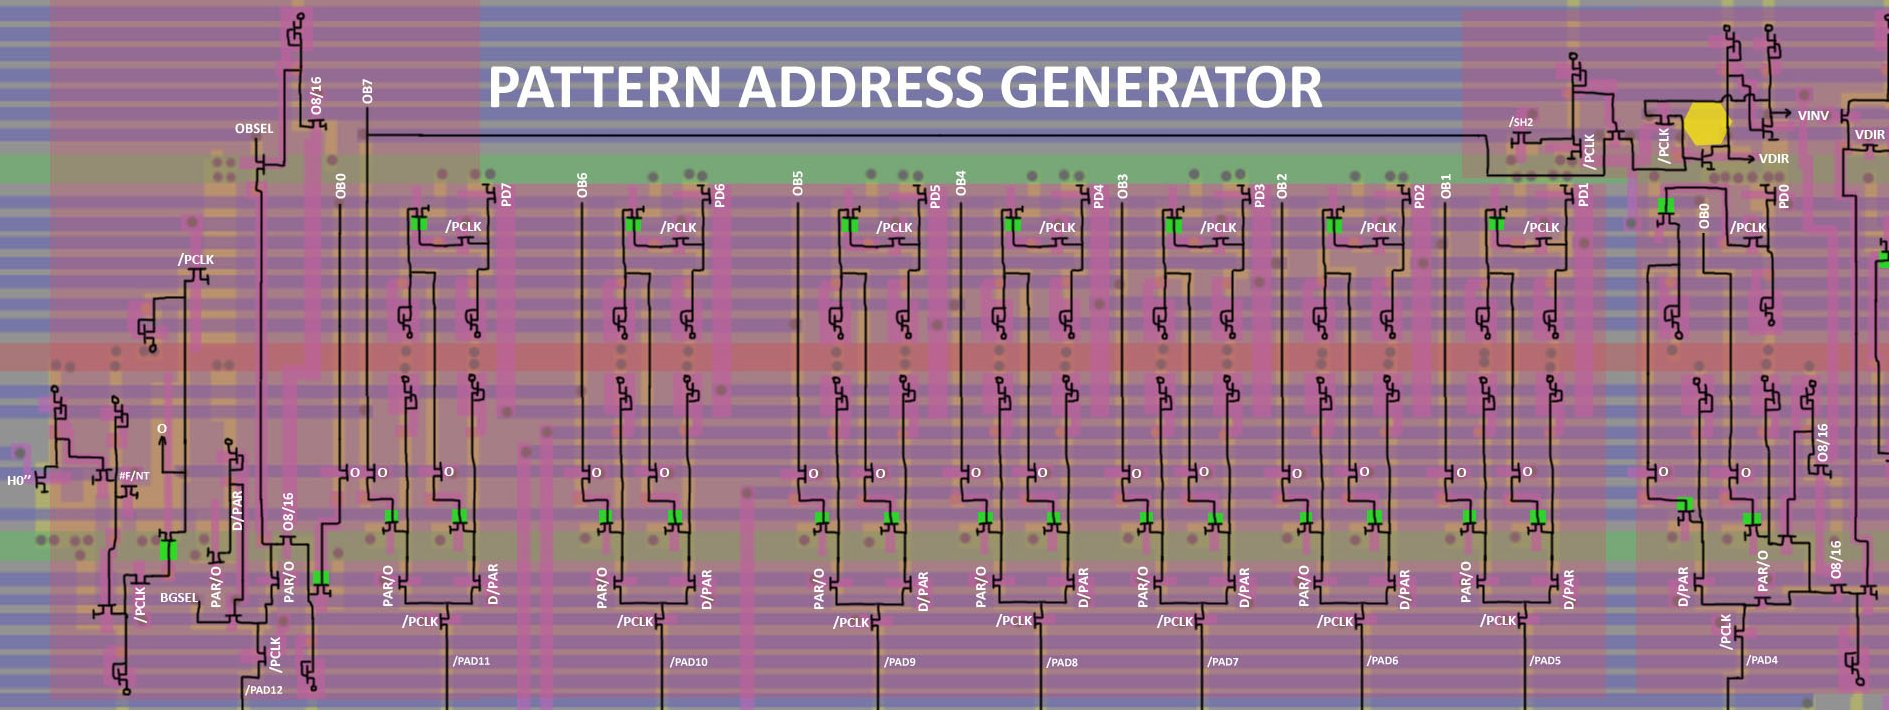
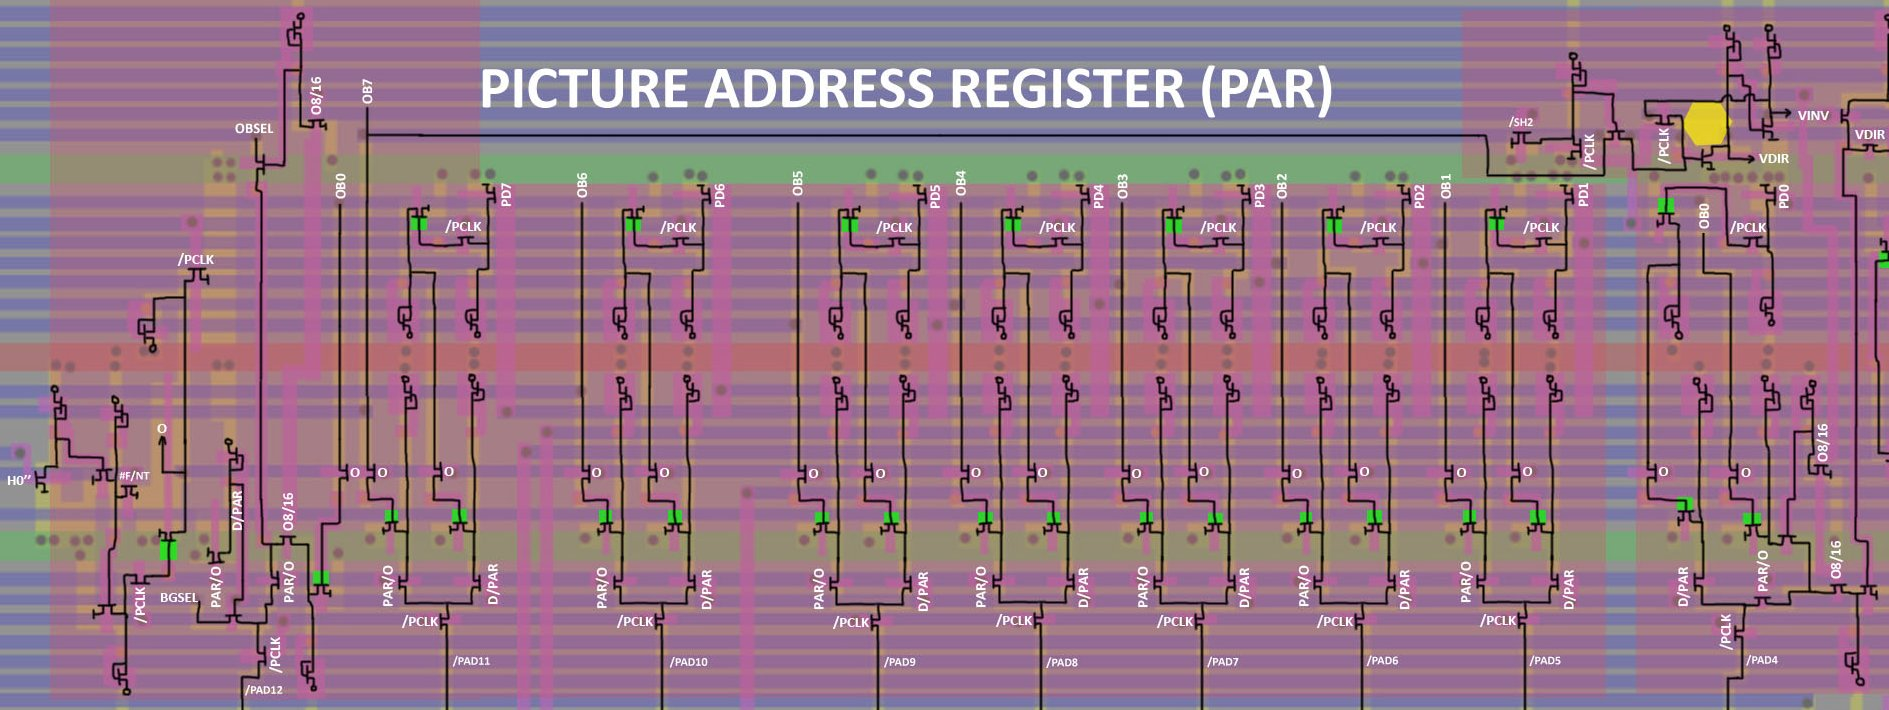
more refac

Changed region(s): [[0.2499, 0.093, 0.7184, 0.1549]]

diff --git a/BreakingNESWiki/PPU/dataread.md b/BreakingNESWiki/PPU/dataread.md
@@ -2,8 +2,9 @@
 
 > [!WARNING]  
 > На данный момент этот раздел вики претерпевает рефакторинг, в связи с тем, что мы некорректно интерпретировали положение схемы PAR (Picture Address Register). То что раньше назвалось "PatGen" - это на самом деле PAR,
-> а то что раньше называлось PAR - это на самом деле не показанный в патенте адресный мультиплексор (который мы решили назвать не хитро - PPU Address Mux, PAMUX).
+> а то что раньше называлось PAR - это на самом деле не показанный в патенте адресный мультиплексор (который мы решили назвать нехитро - PPU Address Mux, PAMUX).
 > Кроме этого "PAR Counters" теперь называются "Tile Counters", т.к. ничего общего с PAR они не имеют.
+> Также мы планируем дать более понятные и адкеватные названия для некоторых сигналов (но уже после рефакторинга вики).
 > Со временем, когда будет сделана вычитка всех правок и мы убедимся что нет ошибок переименования данная плашка будет также удалена.
 
 В патенте PPU эта схема упоминается как `Still Picture Generator`.
